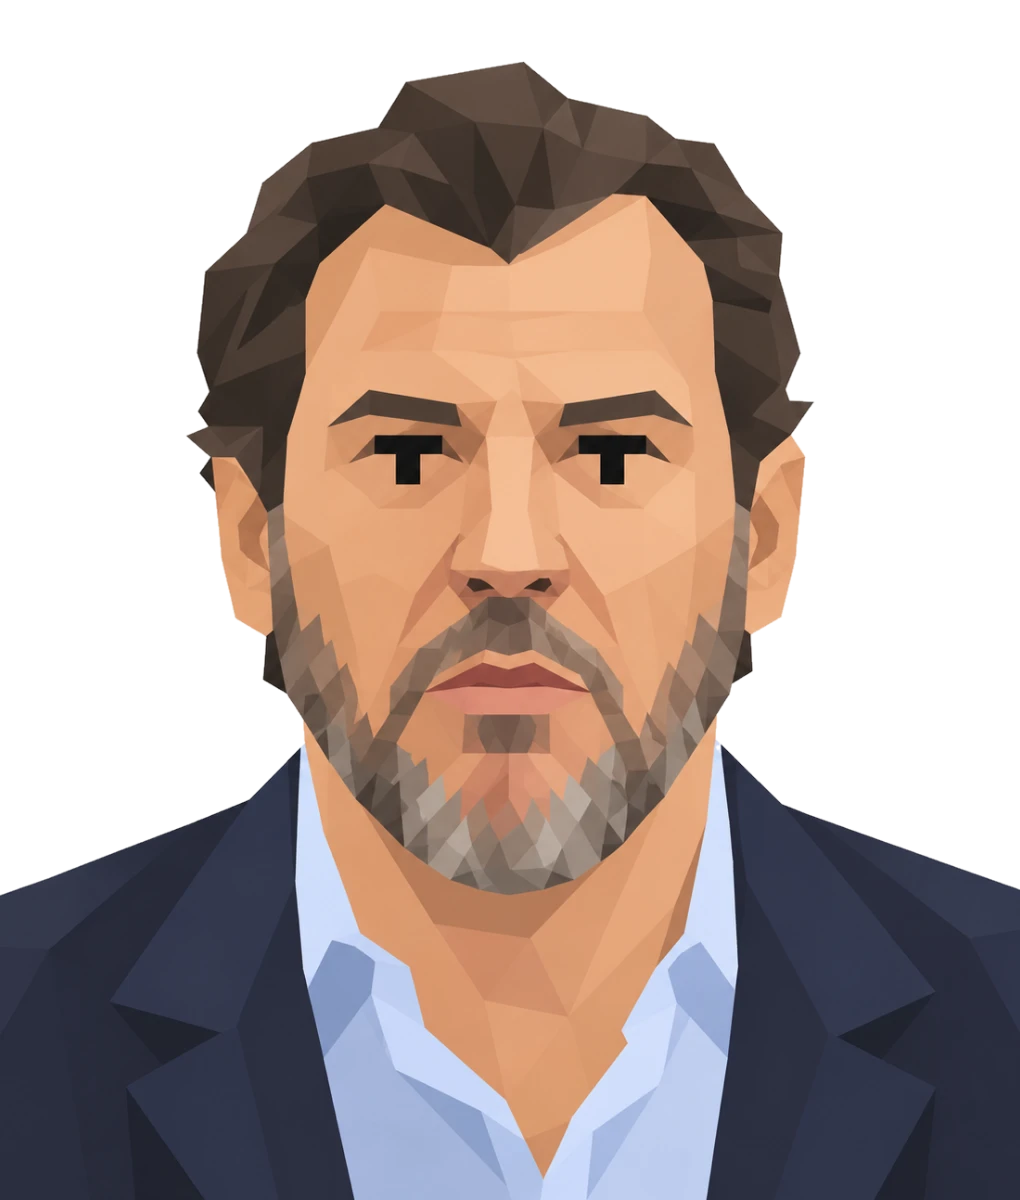
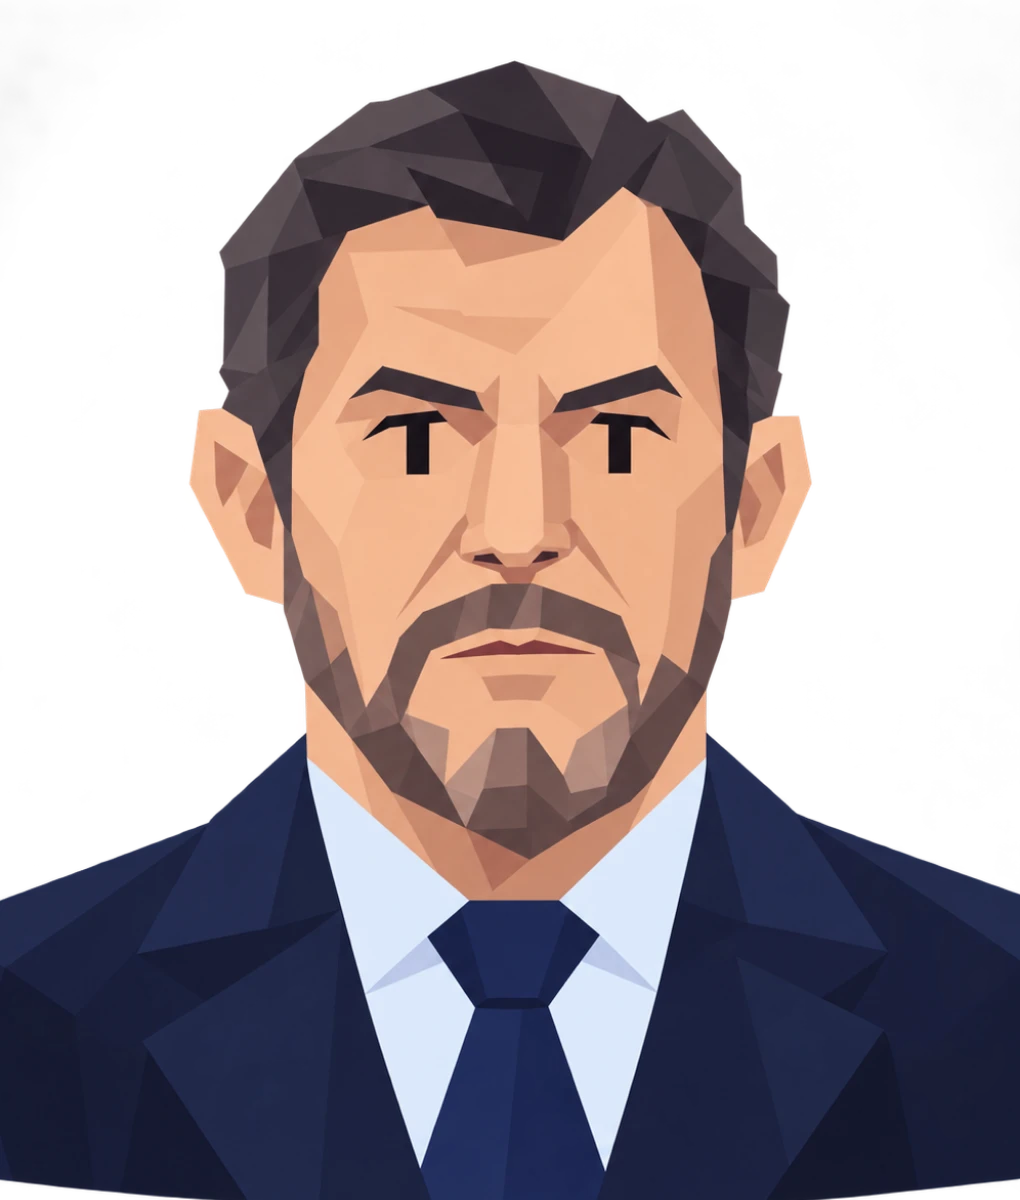
Retratos nuevos de El Escudero, Mopongo y La Vicepresidenta
Las tres con la marca negra plana en T de los ojos, comprobado contra presi.
Y las tres llegaron YA recortadas y sin motas: recortar-fondo.mjs las dio por
buenas sin tocarlas, asi que el export de origen ya sale bien.

  escudero   59% opaco, 0.9 MB ->  88 KB, fondo #0e111e
  mopongo    72% opaco, 1.1 MB ->  97 KB, fondo #452625
  vicepresi  60% opaco, 1.1 MB -> 106 KB, fondo #4a443f

Vicepresi arregla ademas el unico encuadre que quedaba torcido: venia con
10 px de margen lateral y ahora sangra a 0/1020 como el resto.

diff --git a/src/data/coloresRetrato.ts b/src/data/coloresRetrato.ts
@@ -18,13 +18,13 @@ export const COLOR_RETRATO: Record<string, string> = {
   'juez.webp': '#111010',
   'ministraincompetente.webp': '#42444c',
   'ministrocorrupto.webp': '#2d292d',
-  'ministrolameculos.webp': '#272a33',
-  'mopongo.webp': '#3b2123',
+  'ministrolameculos.webp': '#0e111e',
+  'mopongo.webp': '#452625',
   'oposicionsuave.webp': '#1f232f',
   'periodista.webp': '#0b090b',
   'presi.webp': '#2f2932',
   'presidentaregional.webp': '#522327',
   'primeradama.webp': '#5c4e44',
   'sociaincomoda.webp': '#1f1223',
-  'vicepresi.webp': '#615b54',
+  'vicepresi.webp': '#4a443f',
 }
